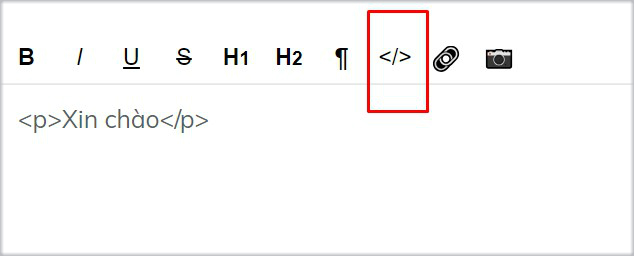
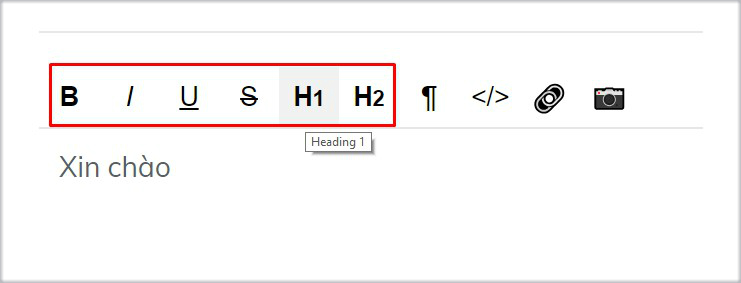
GitBook: [master] one page and 3 assets modified

Changed region(s): [[0.0, 0.0312, 0.989, 0.5625], [0.0599, 0.5312, 0.2397, 0.625]]

diff --git a/bat-dau-voi-subiz/lam-viec-tren-subiz/tuong-tac-qua-kenh-email.md b/bat-dau-voi-subiz/lam-viec-tren-subiz/tuong-tac-qua-kenh-email.md
@@ -51,7 +51,7 @@ Với mỗi **khách hàng**, bạn vào mục **List Activities** sẽ nhận b
 
 1. **Hỗ trợ soạn thảo Email dưới dạng HTML**
 
-![](../../.gitbook/assets/html%20%282%29.jpg)
+![](../../.gitbook/assets/code%20%281%29.jpg)
 
   **2. Tùy chỉnh font chữ văn bản**
 
